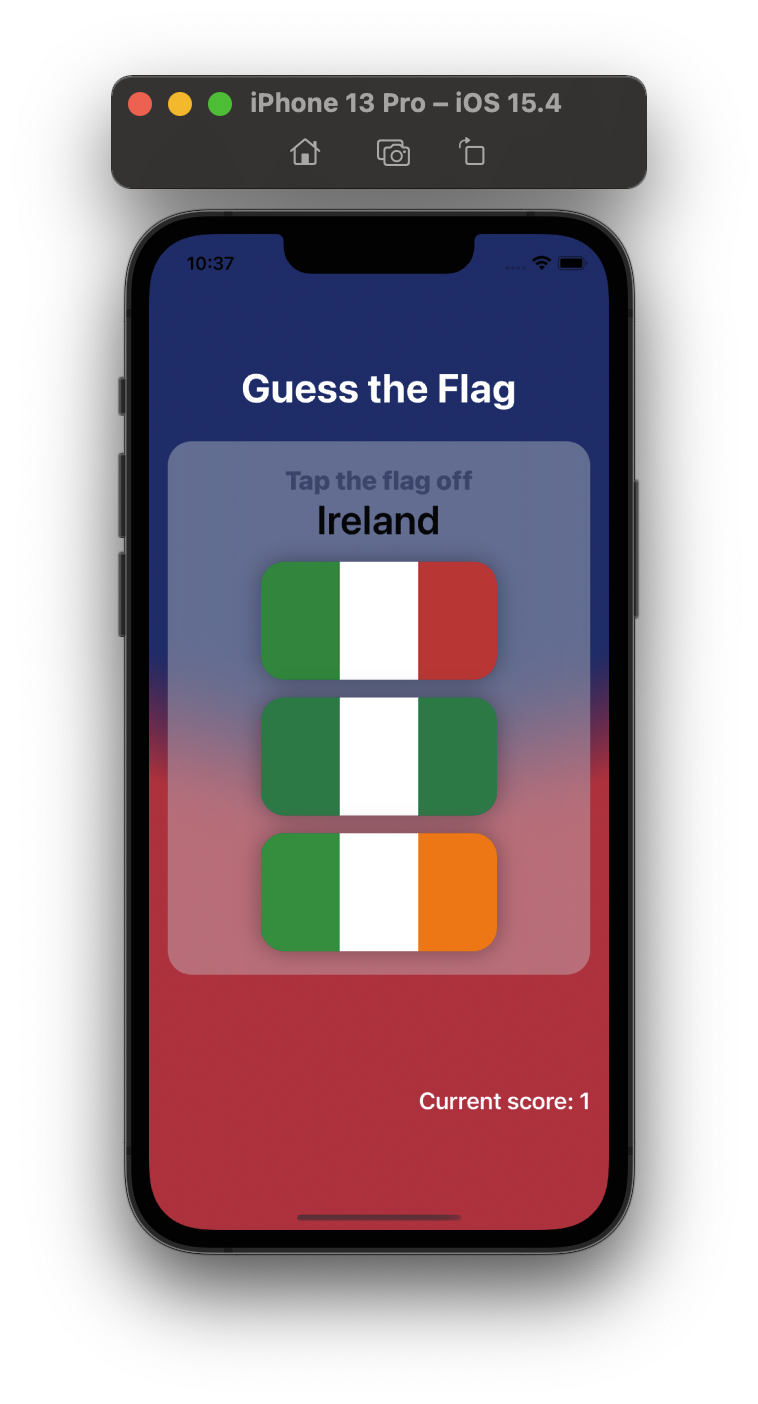
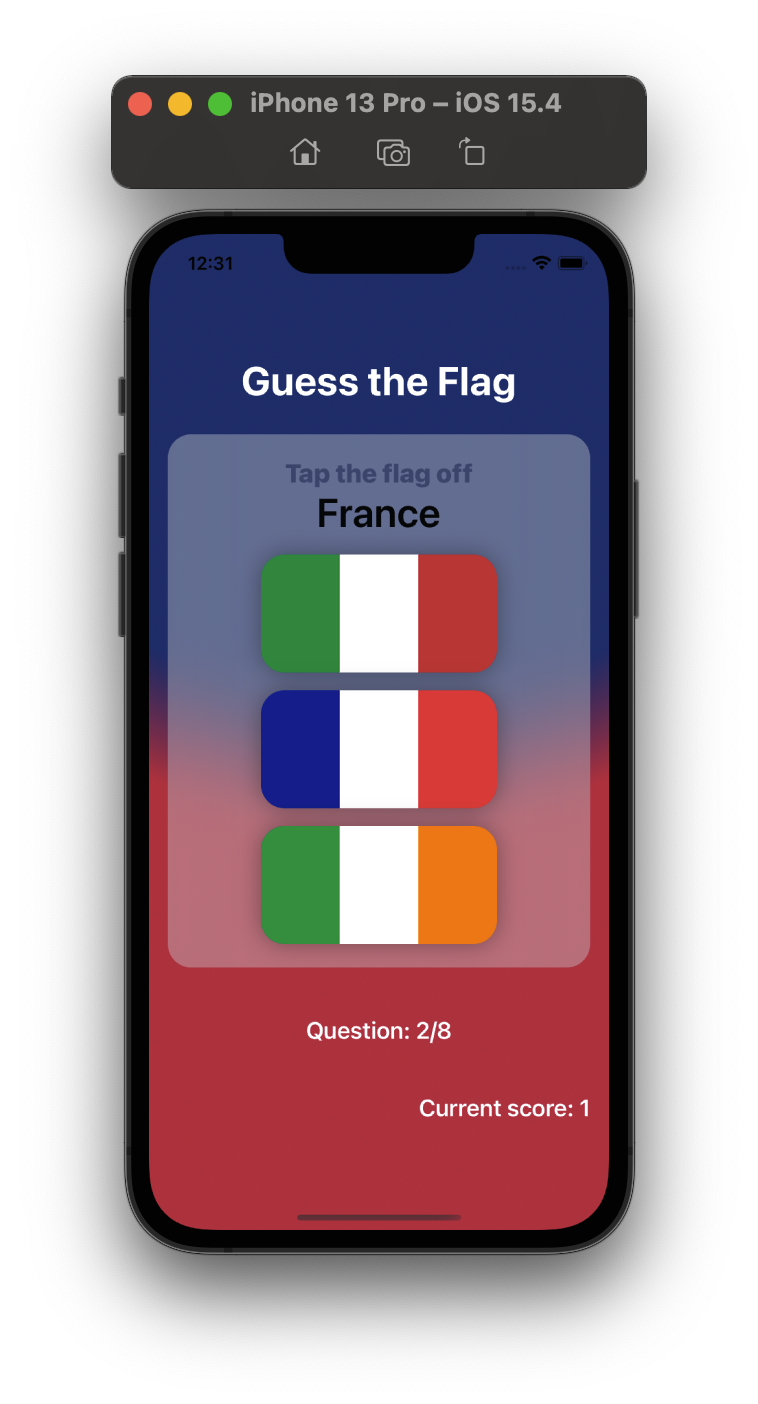
Add features and update doc - add progress text view - add game over function - add tips in wrong alert message - update README.md - update new screenshots

diff --git a/GuessTheFlag/ContentView.swift b/GuessTheFlag/ContentView.swift
@@ -8,14 +8,26 @@
 import SwiftUI
 
 struct ContentView: View {
-    @State private var showingScore = false
+    static let GAME_OVER_COUNT = 8
+    
     @State private var scoreTitle = ""
+    
+    @State private var showingScore = false
+    @State private var isGameOver = false
+    
     @State private var currentScore = 0
+    @State private var answedCount = 0
     @State private var highestScore: Int?
     
     @State private var countries = ["Estonia", "France", "Germany", "Ireland", "Italy", "Nigeria", "Poland", "Russia", "Spain", "UK", "US"].shuffled()
     @State private var correctAnswer = Int.random(in: 0...2)
 
+    var progressString: String {
+        let count = (answedCount + 1) >= ContentView.GAME_OVER_COUNT ? ContentView.GAME_OVER_COUNT : (answedCount + 1)
+        
+        return "Question: \(count)/\(ContentView.GAME_OVER_COUNT)"
+    }
+    
     var body: some View {
         ZStack {
             RadialGradient(stops: [
@@ -58,6 +70,11 @@ struct ContentView: View {
                 .clipShape(RoundedRectangle(cornerRadius: 20))
                 
                 Spacer()
+                
+                Text(progressString)
+                    .foregroundColor(.white)
+                    .font(.title3.bold())
+                
                 Spacer()
                 
                 HStack() {
@@ -74,16 +91,19 @@ struct ContentView: View {
                         .font(.title3.bold())
                 }
                 
-                
                 Spacer()
             }
             .padding()
         }
         .alert(scoreTitle, isPresented: $showingScore) {
             Button("Continue", action: askQuestion)
-            Button("Reset", role: .cancel, action: reset)
         } message: {
             Text("Your score is \(currentScore)")
+        }
+        .alert("Game Over!", isPresented: $isGameOver) {
+            Button("Restart", action: reset)
+        } message: {
+            Text("Your final score is \(currentScore)")
         }
     }
     
@@ -92,10 +112,12 @@ struct ContentView: View {
             scoreTitle = "Correct!"
             currentScore += 1
         } else {
-            scoreTitle = "Wrong!"
+            scoreTitle = "Wrong! \n That's the flag of \(countries[number])"
         }
         
-        showingScore = true
+        answedCount += 1
+        isGameOver = answedCount >= ContentView.GAME_OVER_COUNT
+        showingScore = !isGameOver
     }
 
     func askQuestion() {
@@ -104,11 +126,16 @@ struct ContentView: View {
     }
     
     func reset() {
+        // update higest score
         if(currentScore > highestScore ?? 0) {
             highestScore = currentScore
         }
         
+        // reset to initial state
         currentScore = 0
+        answedCount = 0
+        showingScore = false
+        isGameOver = false
         askQuestion()
     }
 }

diff --git a/README.md b/README.md
@@ -29,5 +29,7 @@ Each time will generate 3 random country flags and an new country name for match
 
 ![image](https://github.com/ngaikkeung/SwiftUI-GuessTheFlag/blob/main/Screenshot/highest_score.png?raw=true)
 
+![image](https://github.com/ngaikkeung/SwiftUI-GuessTheFlag/blob/main/Screenshot/game_over.png?raw=true)
+
 ## Study Resource
 [Hacking with Swift](https://www.hackingwithswift.com)
